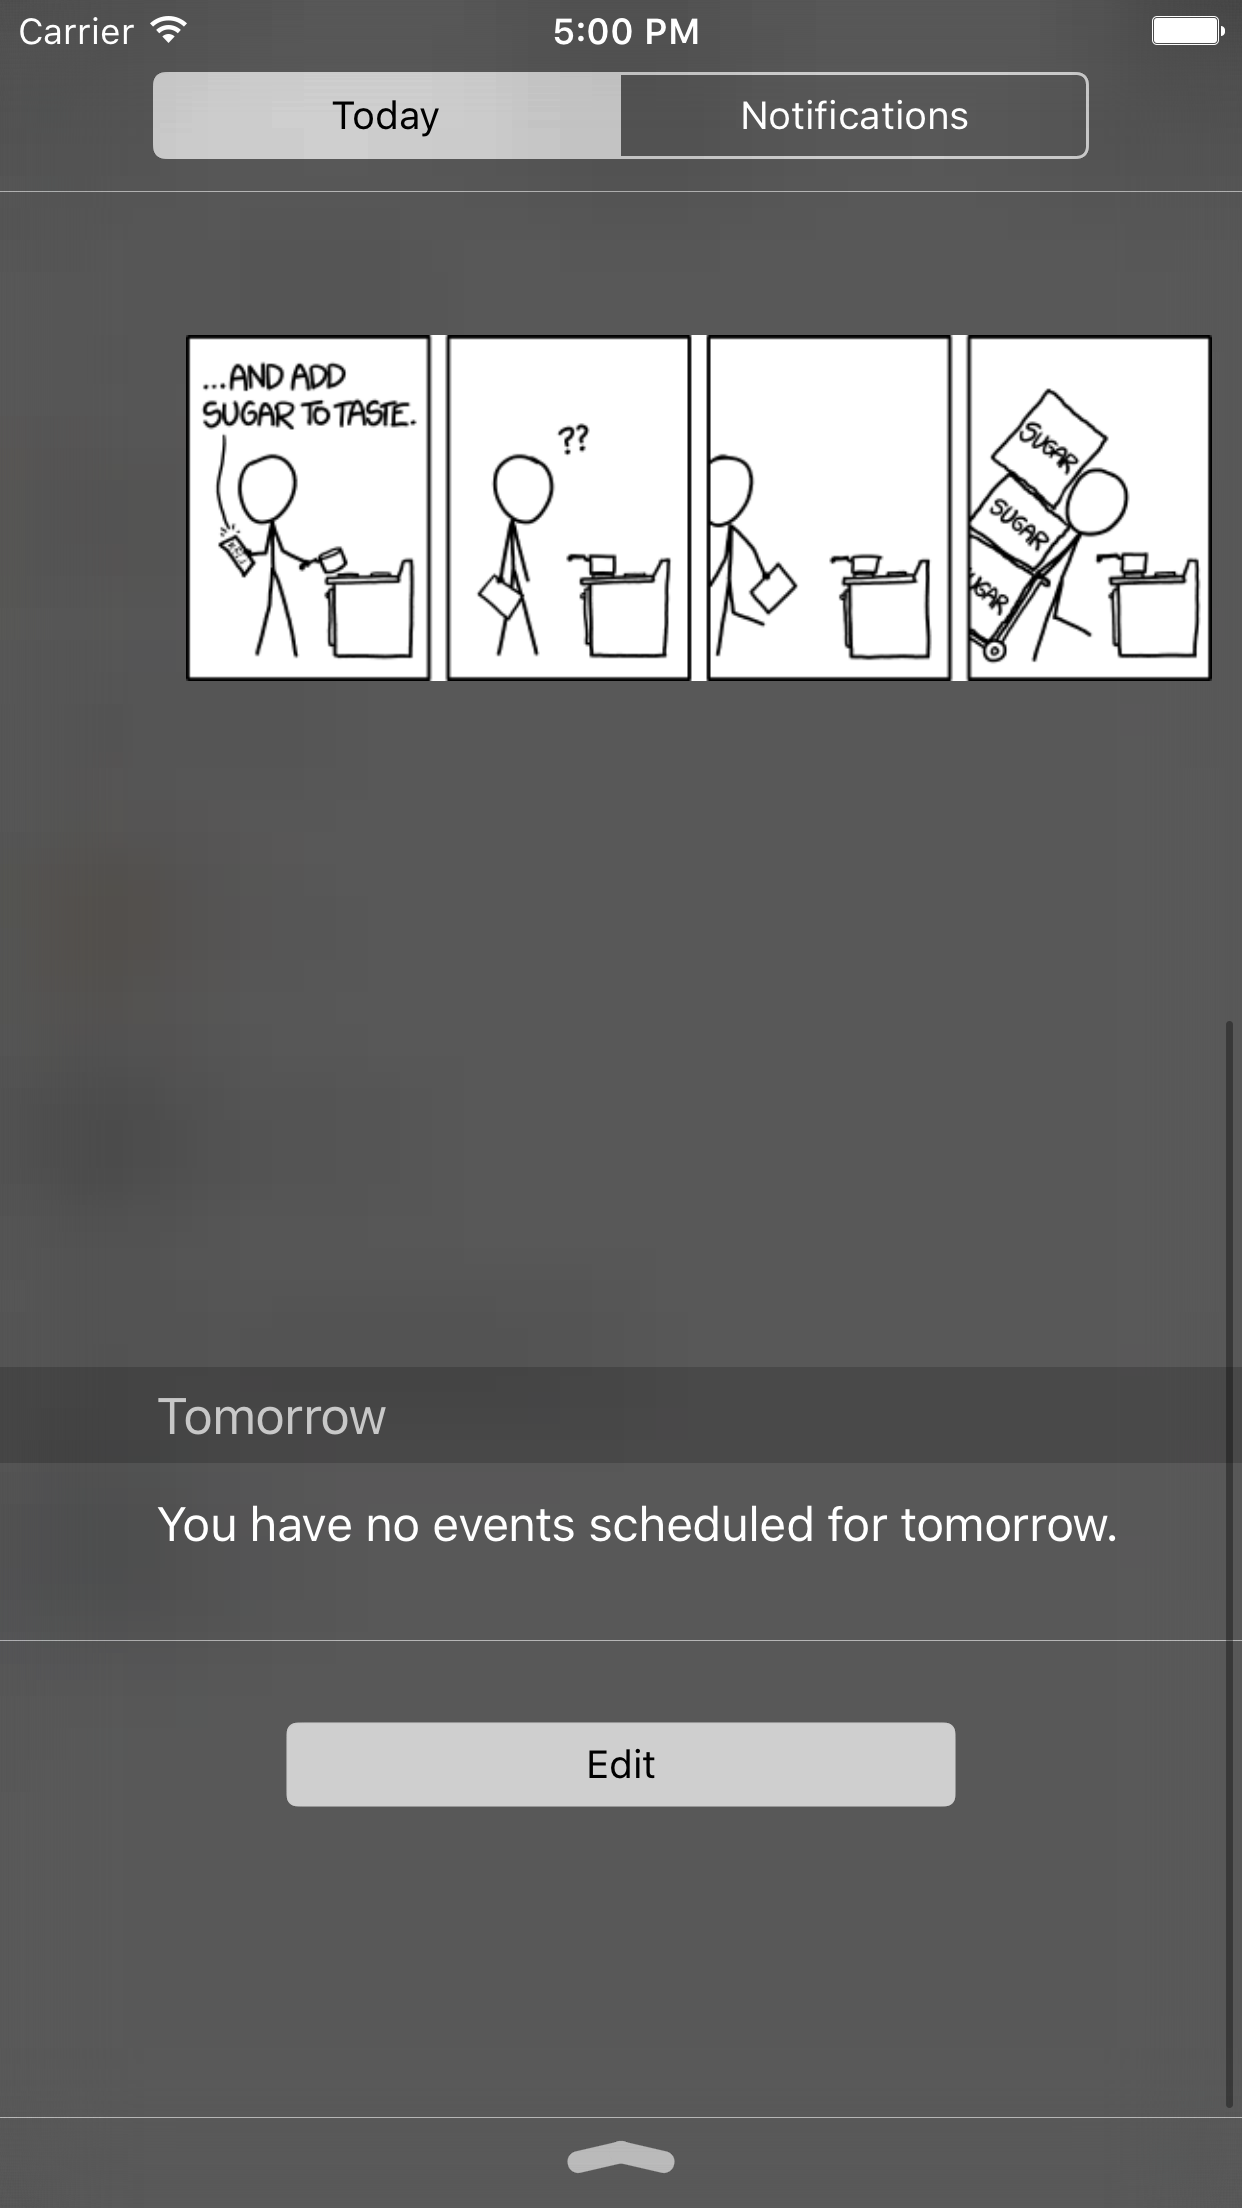
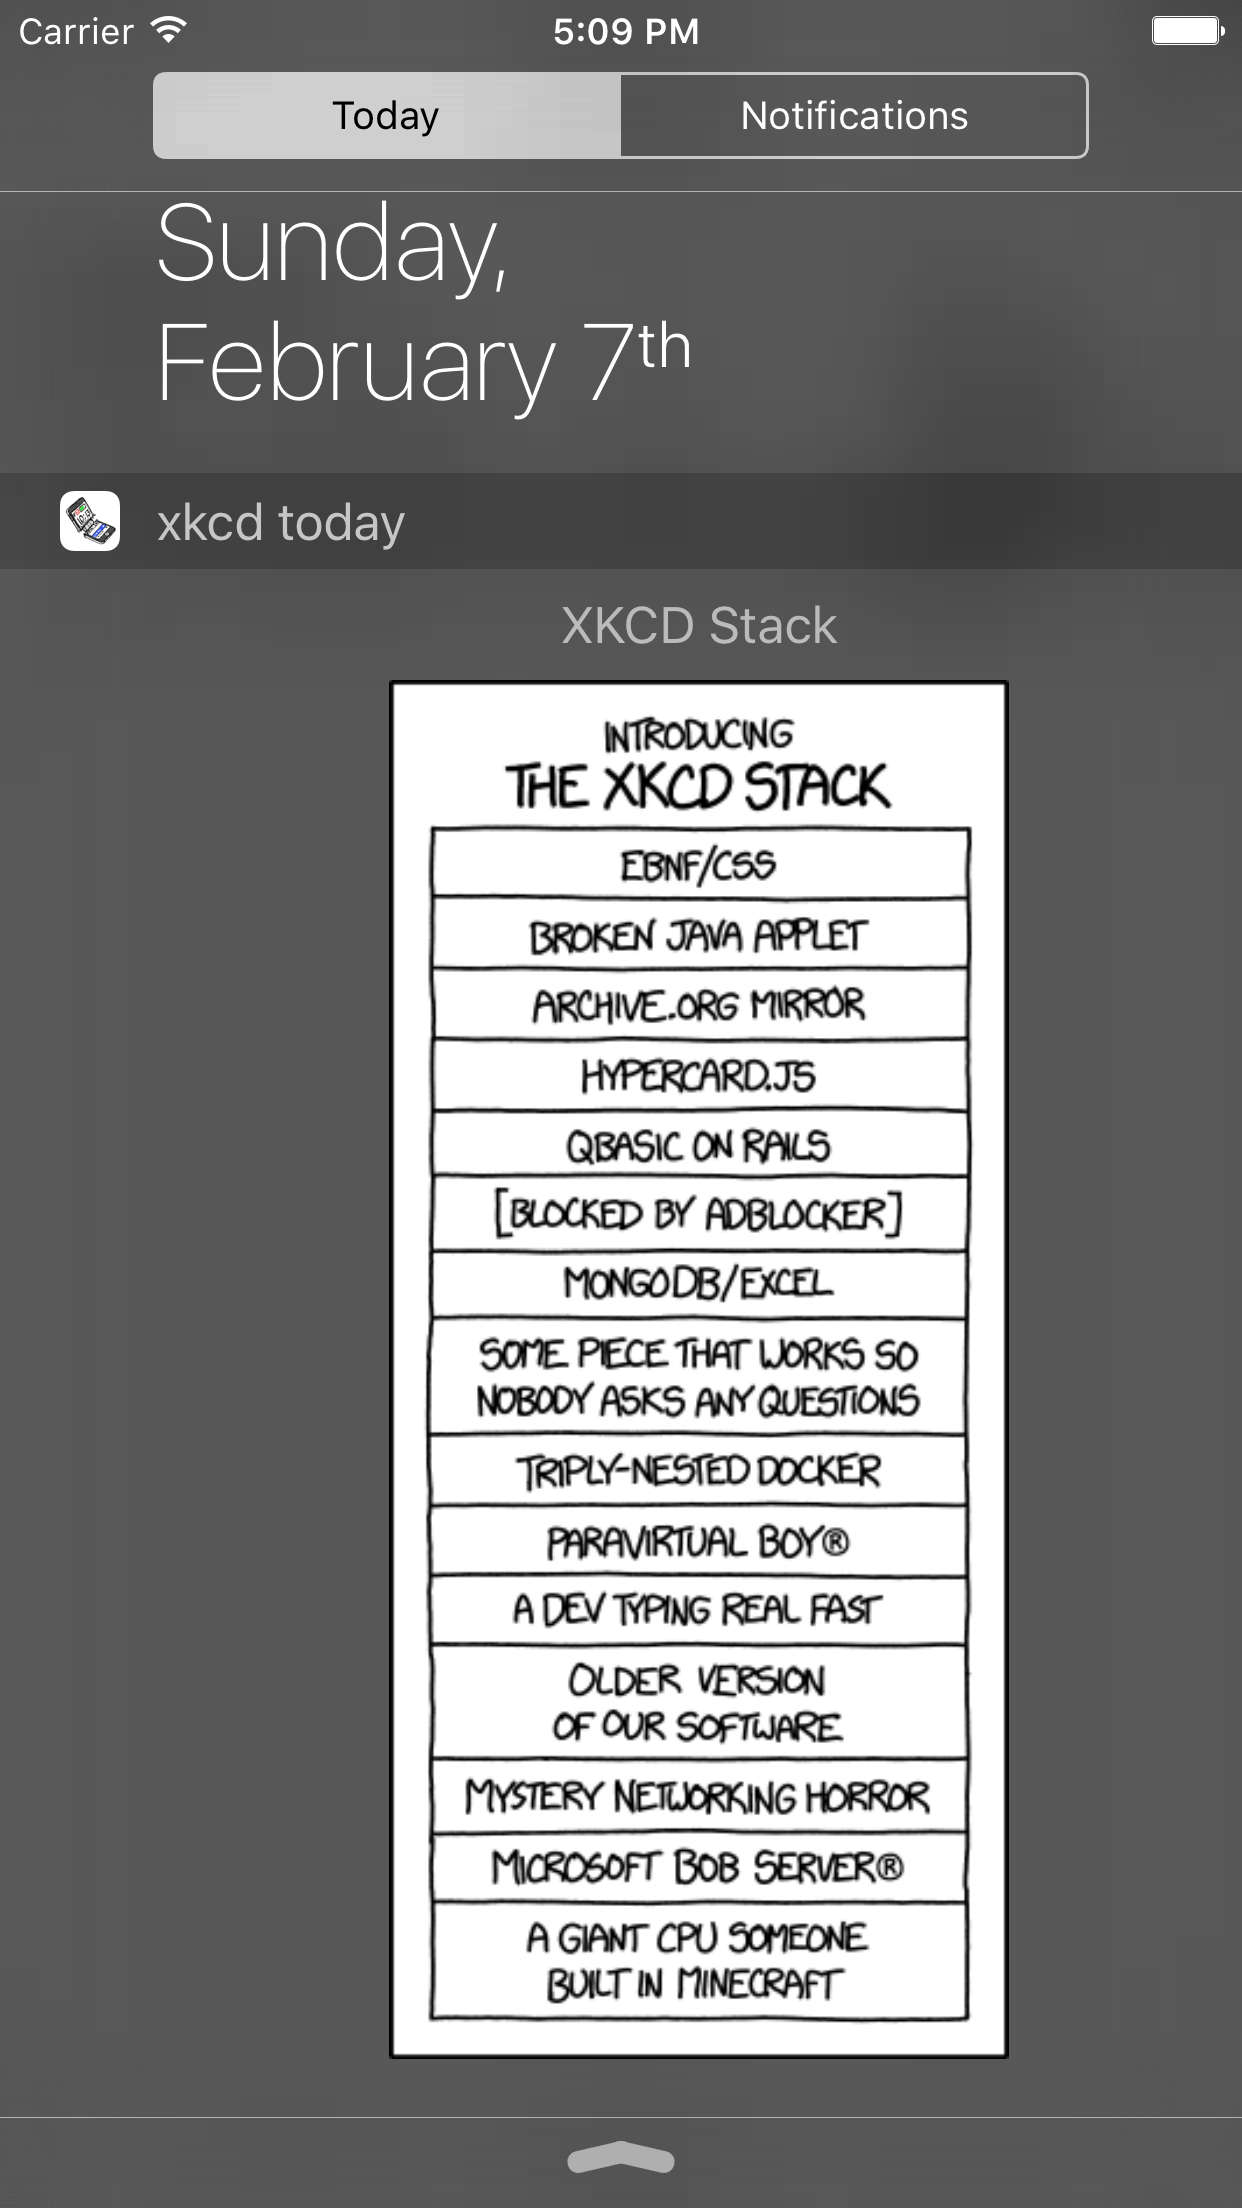
started, not quite working

diff --git a/xkcd/xkcd today/TodayViewController.m b/xkcd/xkcd today/TodayViewController.m
@@ -98,6 +98,7 @@ static NSString *const kContainerAppUrlScheme = @"xkcd-today://";
 
 - (void) updatePreferredSize {
   CGFloat height = MAX(200.0F, self.imageView.bounds.size.height);
+  height = MAX(400.0F, height);
   self.preferredContentSize = CGSizeMake(self.view.bounds.size.width, height);
 }
 
